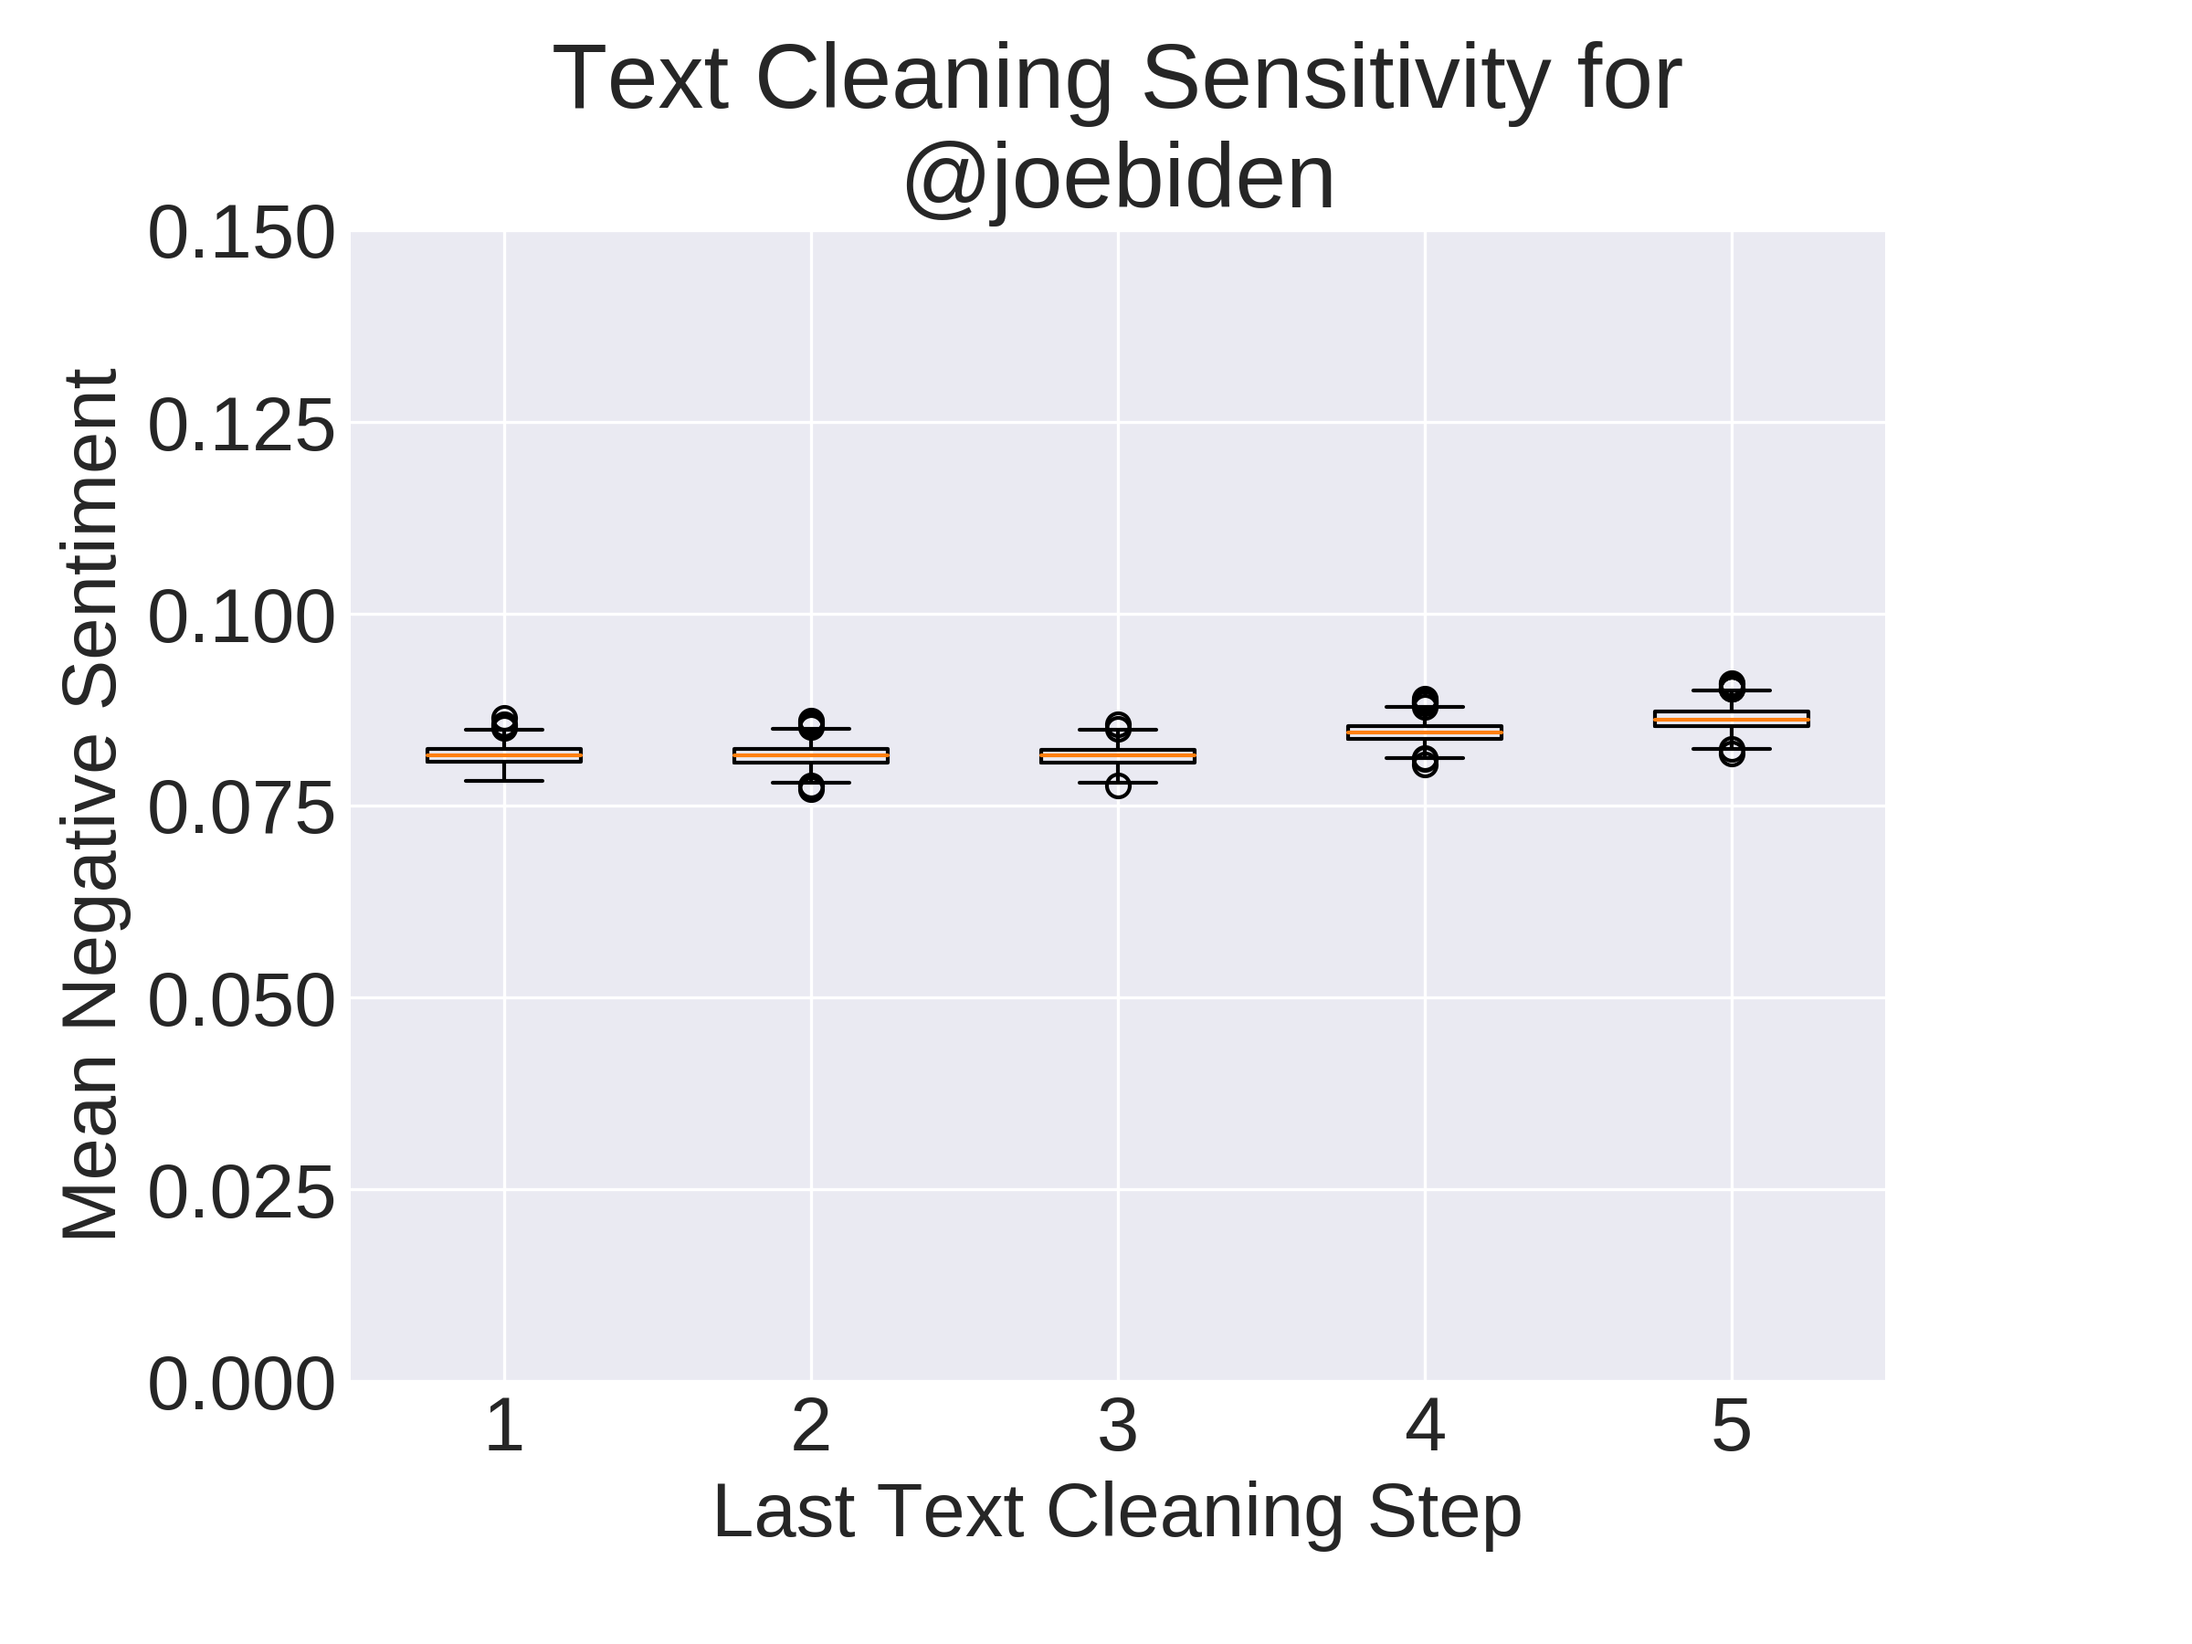
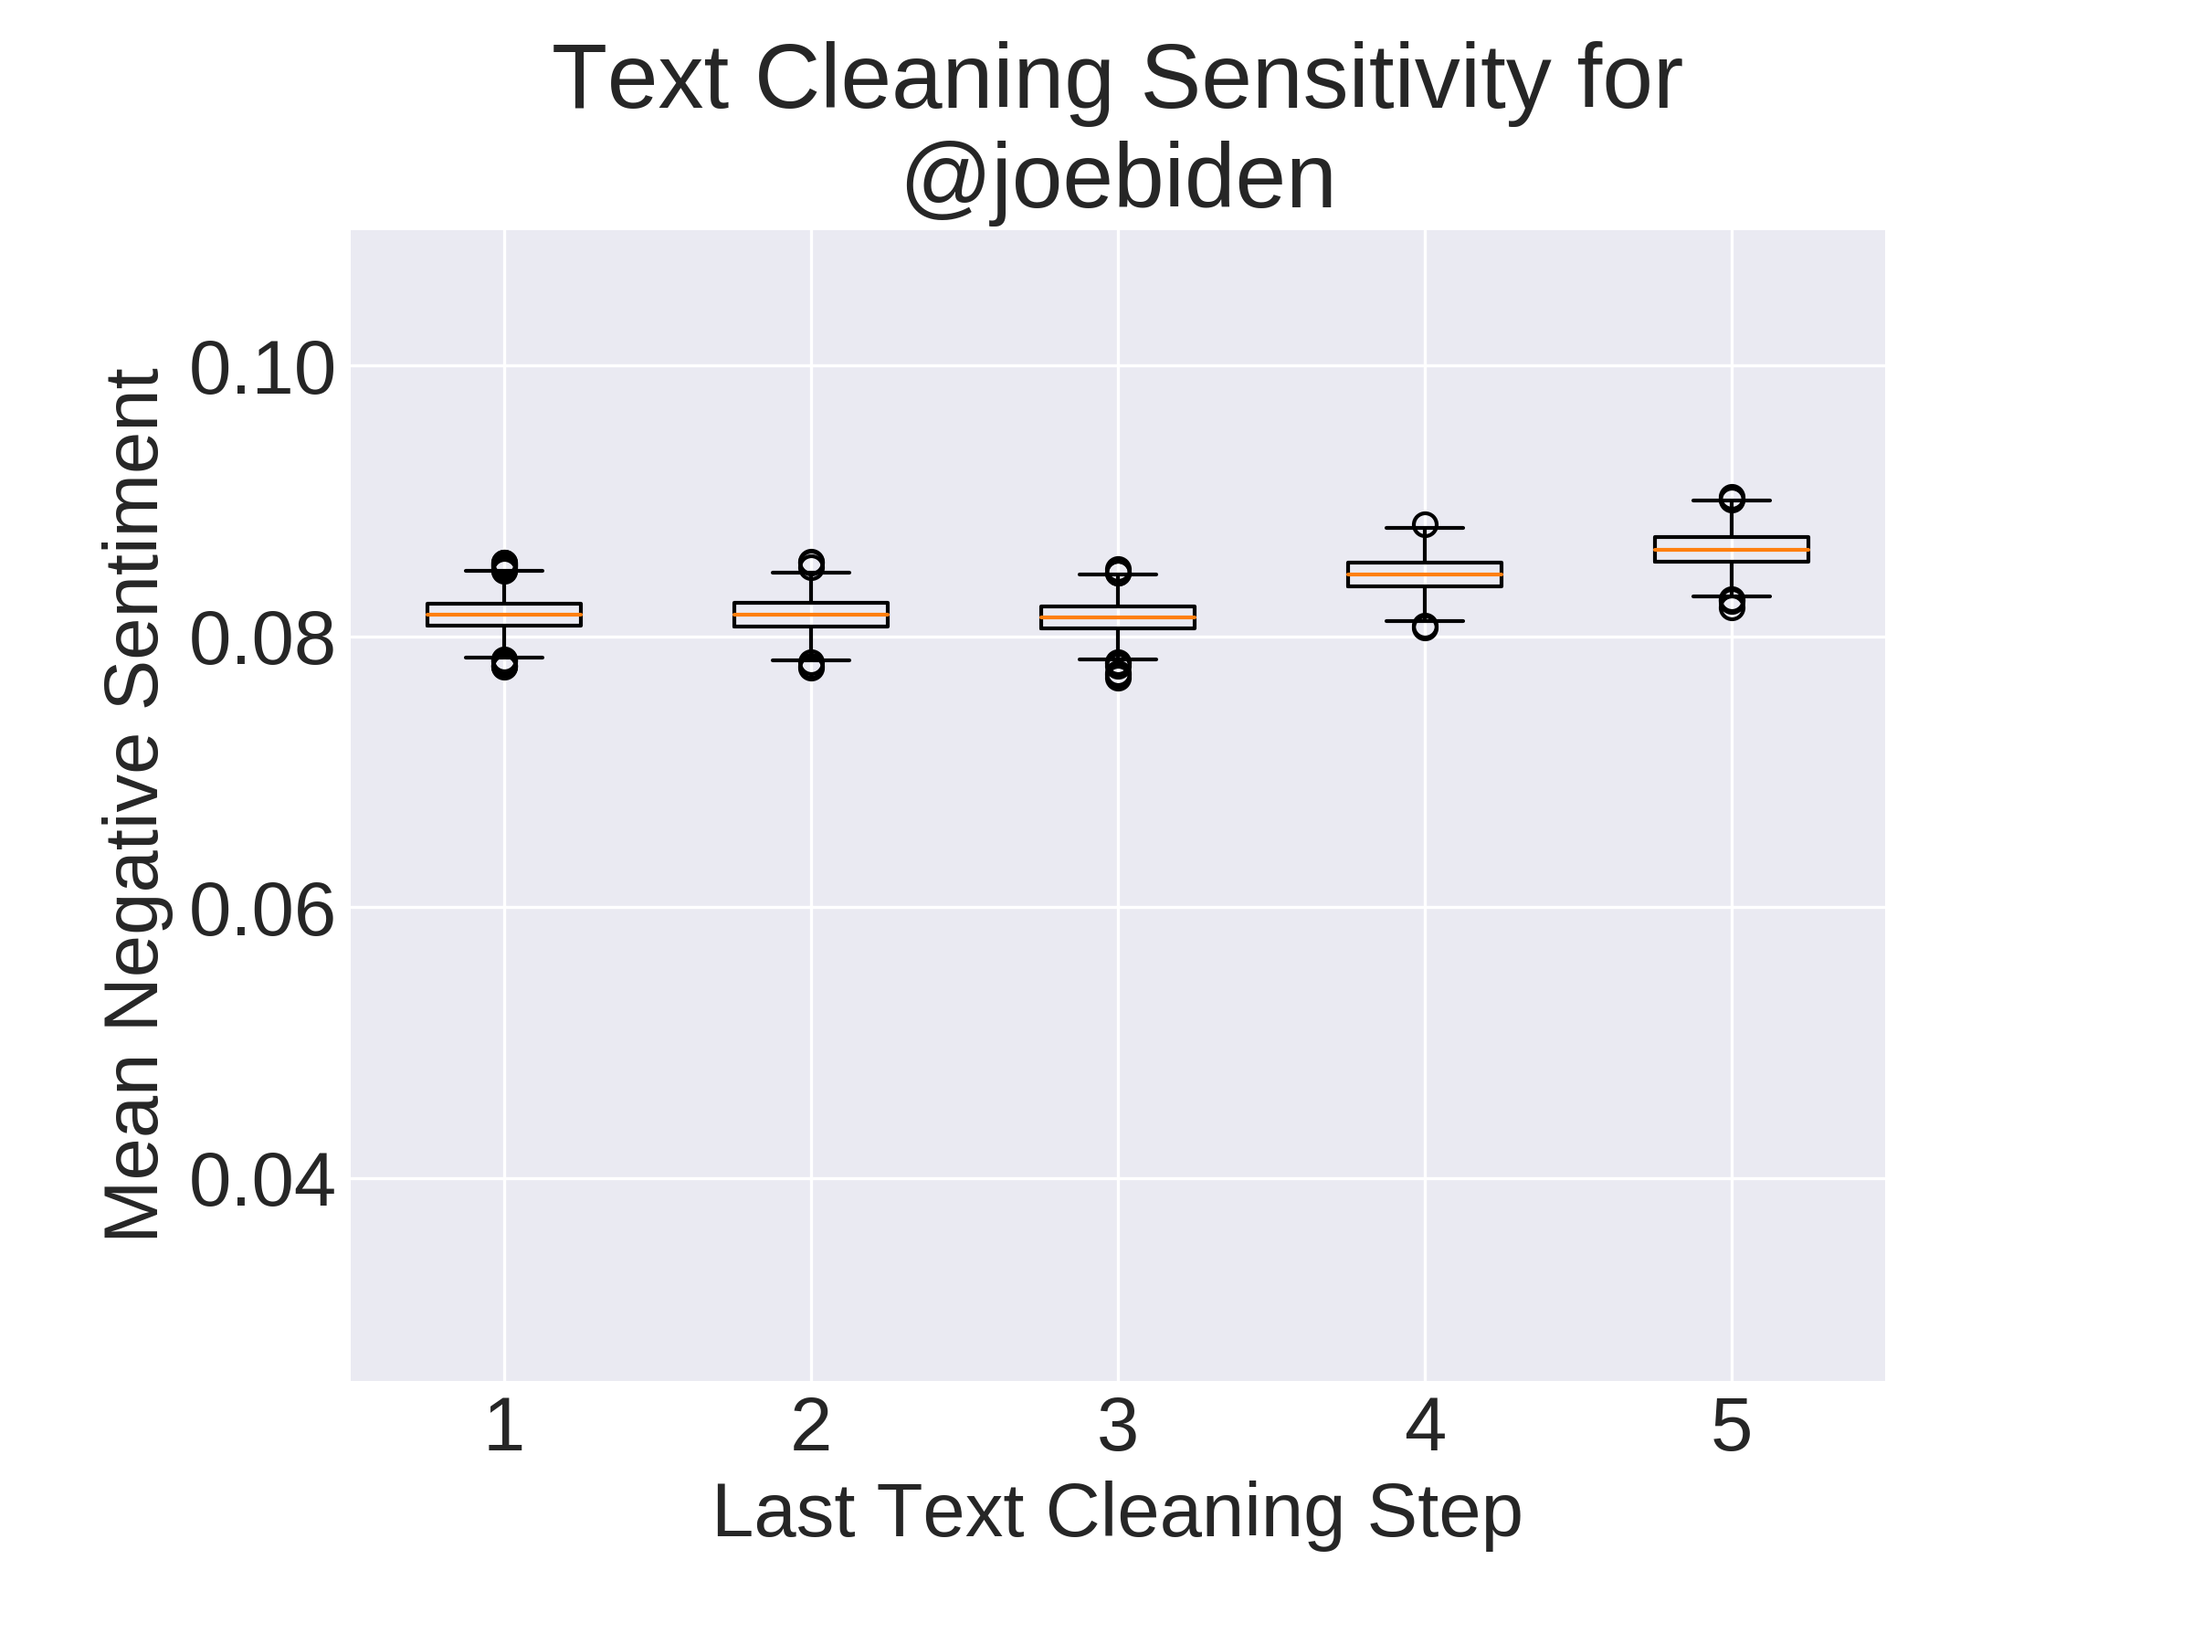
readible figs

diff --git a/src/co_data_analysis.py b/src/co_data_analysis.py
@@ -7,8 +7,8 @@ import matplotlib.pyplot as plt
 plt.style.use('seaborn-darkgrid')
 plt.rcParams.update({'font.size': 20})
 
-import plotting_functions
-import TextCleaner
+from plotting_functions import make_boxplot, save_fig
+from TextCleaner import TextCleaner
 from vaderSentiment.vaderSentiment import SentimentIntensityAnalyzer
 
 def to_count_list(input_lst, sorted_by_vals_desc=True):
@@ -107,63 +107,63 @@ if __name__ == '__main__':
     '''
     Plotting fig 1: Raw (unprocessed tweets)
     '''
-    fig, ax = plt.subplots(3,1, figsize=(10,22), sharex=True)
+    # fig, ax = plt.subplots(3,1, figsize=(10,22), sharex=True)
 
-    fig_pos_lst = [[0.25, 0.67, 0.7, 0.30],
-                  [0.25, 0.35, 0.7, 0.30],
-                  [0.25, 0.03, 0.7, 0.30]]
-
-
-    for i, treatment in enumerate(['@joebiden', '#COVID19', '@realdonaldtrump']):
-        total_tweet_string = colorado_df[treatment].str.cat(sep=' ')
-        total_tweet_list = total_tweet_string.split()
-        words, counts = to_count_list(total_tweet_list)
-        if i == 2:
-            make_hor_barchart(ax[i],fig_pos_lst[i],words[:25][::-1],counts[:25][::-1],'Relative Frequency (a.u.)',f'Top 25 Words for {treatment}')
-        else:
-            make_hor_barchart(ax[i],fig_pos_lst[i],words[:25][::-1],counts[:25][::-1],'',f'Top 25 Words for {treatment}')
-    save_fig(f'{state}_single_word_raw_bar.png')
-
-    fig, ax = plt.subplots(2,1, figsize=(10,22), sharex=True)
-
-    fig_pos_lst = [[0.10, 0.51, 0.8, 0.30],
-                  [0.10, 0.18, 0.8, 0.30]]
+    # fig_pos_lst = [[0.25, 0.67, 0.7, 0.30],
+    #               [0.25, 0.35, 0.7, 0.30],
+    #               [0.25, 0.03, 0.7, 0.30]]
 
 
-    for i, treatment in enumerate(['@joebiden + #COVID19', '@realdonaldtrump + #COVID19']):
-        total_tweet_string = colorado_df[treatment].str.cat(sep=' ')
-        total_tweet_list = total_tweet_string.split()
-        words, counts = to_count_list(total_tweet_list)
-        if i == 1:
-            make_hor_barchart(ax[i],fig_pos_lst[i],words[:25][::-1],counts[:25][::-1],'Relative Frequency (a.u.)',f'Top 25 Words for {treatment}')
-        else:
-            make_hor_barchart(ax[i],fig_pos_lst[i],words[:25][::-1],counts[:25][::-1],'',f'Top 25 Words for {treatment}')
-    save_fig(fig,f'{state}_multi_word_raw_bar.png')
+    # for i, treatment in enumerate(['@joebiden', '#COVID19', '@realdonaldtrump']):
+    #     total_tweet_string = colorado_df[treatment].str.cat(sep=' ')
+    #     total_tweet_list = total_tweet_string.split()
+    #     words, counts = to_count_list(total_tweet_list)
+    #     if i == 2:
+    #         make_hor_barchart(ax[i],fig_pos_lst[i],words[:25][::-1],counts[:25][::-1],'Relative Frequency (a.u.)',f'Top 25 Words for {treatment}')
+    #     else:
+    #         make_hor_barchart(ax[i],fig_pos_lst[i],words[:25][::-1],counts[:25][::-1],'',f'Top 25 Words for {treatment}')
+    # save_fig(f'{state}_single_word_raw_bar.png')
+
+    # fig, ax = plt.subplots(2,1, figsize=(10,22), sharex=True)
+
+    # fig_pos_lst = [[0.10, 0.51, 0.8, 0.30],
+    #               [0.10, 0.18, 0.8, 0.30]]
+
+
+    # for i, treatment in enumerate(['@joebiden + #COVID19', '@realdonaldtrump + #COVID19']):
+    #     total_tweet_string = colorado_df[treatment].str.cat(sep=' ')
+    #     total_tweet_list = total_tweet_string.split()
+    #     words, counts = to_count_list(total_tweet_list)
+    #     if i == 1:
+    #         make_hor_barchart(ax[i],fig_pos_lst[i],words[:25][::-1],counts[:25][::-1],'Relative Frequency (a.u.)',f'Top 25 Words for {treatment}')
+    #     else:
+    #         make_hor_barchart(ax[i],fig_pos_lst[i],words[:25][::-1],counts[:25][::-1],'',f'Top 25 Words for {treatment}')
+    # save_fig(fig,f'{state}_multi_word_raw_bar.png')
 
     '''
     VADER analysis on RAW tweets, Figure 2
     '''
     analyzer = SentimentIntensityAnalyzer()
 
-    for i, treatment in enumerate(treatment_dict.values()):
-        fig, ax = plt.subplots(1,figsize=(8,6))
-        vader_df = tweet_col_to_vader_df(analyzer, colorado_df[treatment])
-        make_hist(ax, treatment, vader_df['compound'], (0,4000), 'Compound Sentiment', (-1, 1))
-        save_fig(fig, f'{state}_{i}_raw_compound_sentiment.png')
+    # for i, treatment in enumerate(treatment_dict.values()):
+    #     fig, ax = plt.subplots(1,figsize=(8,6))
+    #     vader_df = tweet_col_to_vader_df(analyzer, colorado_df[treatment])
+    #     make_hist(ax, treatment, vader_df['compound'], (0,4000), 'Compound Sentiment', (-1, 1))
+    #     save_fig(fig, f'{state}_{i}_raw_compound_sentiment.png')
 
     '''
     Bootstrap raw tweets, Figure 3
     '''
-    fig, ax = plt.subplots(1,figsize=(8,6))
-    for i, treatment in enumerate(treatment_dict.values()):
+    # fig, ax = plt.subplots(1,figsize=(8,6))
+    # for i, treatment in enumerate(treatment_dict.values()):
 
-        vader_df = tweet_col_to_vader_df(analyzer, colorado_df[treatment])
+    #     vader_df = tweet_col_to_vader_df(analyzer, colorado_df[treatment])
 
-        bootstrap_samples = bootstrap(vader_df['compound'],resamples=1000)
-        bootstrap_sample_means = list(map(np.mean, bootstrap_samples))
+    #     bootstrap_samples = bootstrap(vader_df['compound'],resamples=1000)
+    #     bootstrap_sample_means = list(map(np.mean, bootstrap_samples))
 
-        make_hist(ax, treatment, bootstrap_sample_means, (0,120), 'Mean Compound Sentiment', (-1, 1))
-    save_fig(fig, f'{state}_all_raw__mean_compound_sentiment.png')
+    #     make_hist(ax, treatment, bootstrap_sample_means, (0,120), 'Mean Compound Sentiment', (-1, 1))
+    # save_fig(fig, f'{state}_all_raw__mean_compound_sentiment.png')
 
     '''
     preprocess tweets, perform VADER analysis, and make sensitivity boxplots Figures 4,5
@@ -172,10 +172,12 @@ if __name__ == '__main__':
     num_resamples = 1000
     total_cleaning_steps = range(1,6)
 
-    for i, treatment in enumerate(treatment_dict.values()):
+    new_lst = ['#COVID19']
+
+    for treatment in new_lst:
         two_dim_array = make_sent_sensitivity_array(colorado_df, treatment, 'compound', num_resamples, total_cleaning_steps)
 
         # make boxplots
         fig, ax = plt.subplots(1,figsize=(8,6))
-        make_boxplot(ax,two_dim_array,(0,0.15),total_cleaning_steps,'Mean Negative Sentiment',title=f'Text Cleaning Sensitivity for\n{treatment}')
-        save_fig(f'{state}_{i}_mean_negative_boxplot.png')
+        make_boxplot(ax,two_dim_array,(-0.045,0.055),total_cleaning_steps,'Mean Compound Sentiment',title=f'Text Cleaning Sensitivity for\n{treatment}')
+        save_fig(fig,f'{state}_2_mean_compound_boxplot.png')
